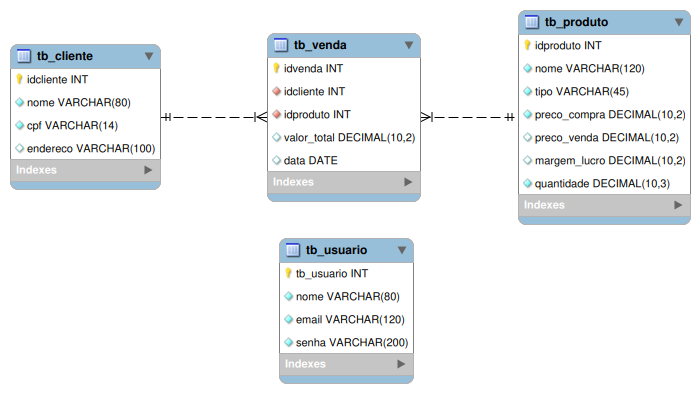
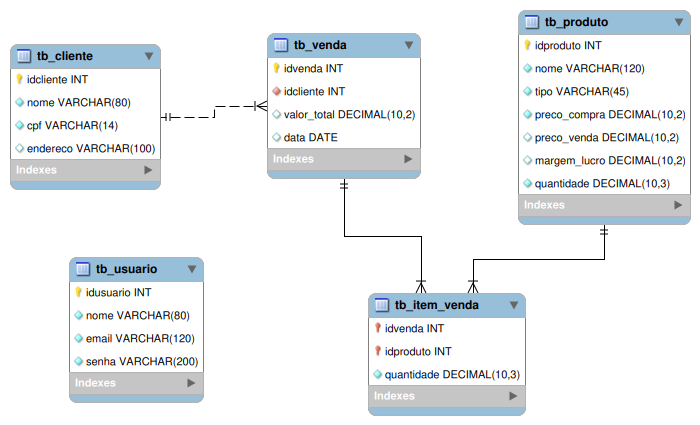
ataulizando banco

diff --git a/codigo/funcoes.php b/codigo/funcoes.php
@@ -124,17 +124,30 @@ function salvarUsuario($conexao, $nome, $email, $senha) {
     return $funcionou;
 };
  
-function salvarVenda($conexao, $idcliente, $idproduto, $valor_total, $data) {
-    $sql = "INSERT INTO tb_venda (idcliente, idproduto, valor_total, data) VALUES (?, ?, ?, ?)";
+// function salvarVenda($conexao, $idcliente, $idproduto, $valor_total, $data) {
+    // $sql = "INSERT INTO tb_venda (idcliente, idproduto, valor_total, data) VALUES (?, ?, ?, ?)";
+    // $comando = mysqli_prepare($conexao, $sql);
+
+    // mysqli_stmt_bind_param($comando, 'iids', $idcliente, $idproduto, $valor_total, $data);
+
+    // $funcionou = mysqli_stmt_execute($comando);
+    // mysqli_stmt_close($comando);
+    
+    // return $funcionou;
+// };
+
+function salvarItemVenda($conexao, $id_venda, $id_produto, $quantidade) {
+    $sql = "INSERT INTO tb_item_venda (idvenda, idproduto, quantidade) VALUES (?, ?, ?)";
+
     $comando = mysqli_prepare($conexao, $sql);
 
-    mysqli_stmt_bind_param($comando, 'iids', $idcliente, $idproduto, $valor_total, $data);
+    mysqli_stmt_bind_param($comando, 'iid', $id_venda, $id_produto, $quantidade);
 
     $funcionou = mysqli_stmt_execute($comando);
     mysqli_stmt_close($comando);
-    
+
     return $funcionou;
-};
+}
 
 // retornar uma variável com todos os dados do cliente
 function pesquisarClienteId($conexao, $idcliente) {
